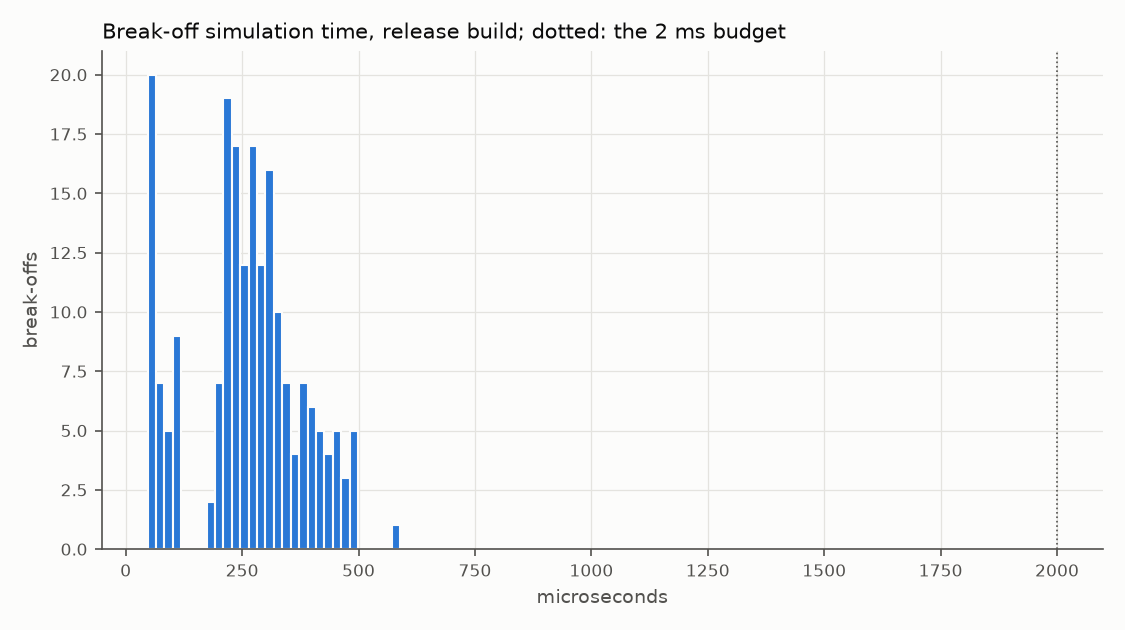
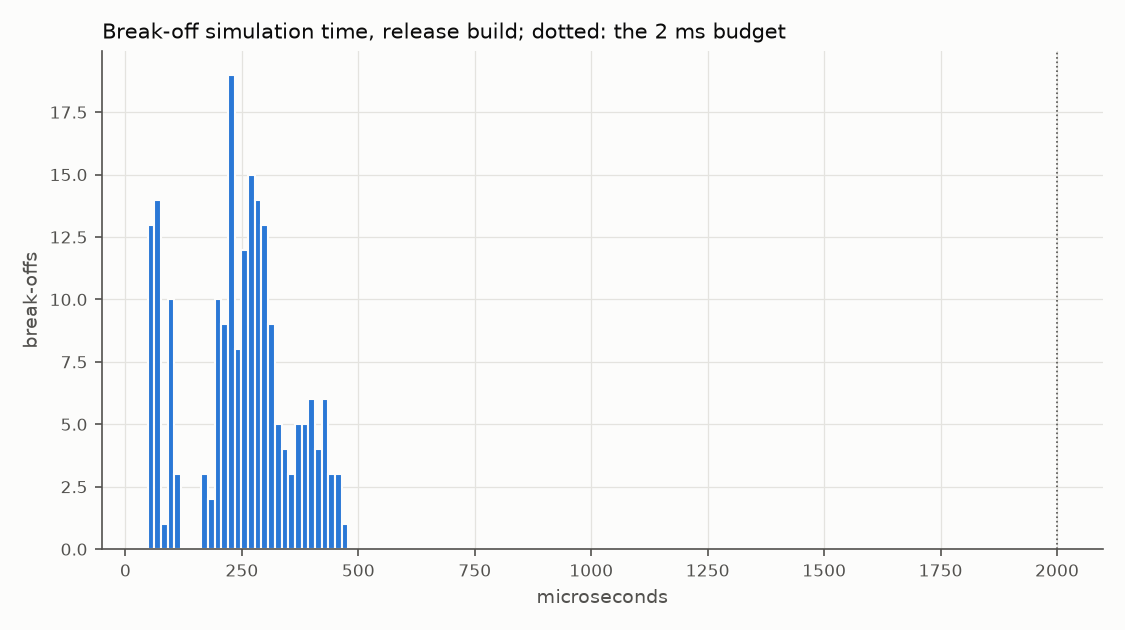
Calibration report regenerated: setups from the series' summaries, no data problems

diff --git a/docs/calibration/report/report.md b/docs/calibration/report/report.md
@@ -83,7 +83,7 @@ Setup: Stun shots (no spin at contact): throw is the angle between the object ba
 
 ![Cushion rebound angle and speed against incidence](cushion_rebound.png)
 
-The angle a plain rolling cue ball comes off the side cushion at, against the angle it goes in at, for four speeds, and how much of its speed it keeps. Rebound angles run 0.0 to 79.7 degrees and the ball keeps 70.2 to 94.3% of its speed. Up to 2 m/s the speeds give the same angles to within 0.05 degrees, so their lines lie on top of each other; only the firm hit's restitution falls. Against the target (C7): worst 0.05 deg and 0.08% of the speed off the fine-step Mathavan solution over 36 cases; the target is 1 deg, 2% (the suite also checks side, stun and screw).
+The angle a plain rolling cue ball comes off the side cushion at, against the angle it goes in at, at 0.5, 1, 2 and 4 m/s, and how much of its speed it keeps. Rebound angles run 0.0 to 79.7 degrees and the ball keeps 70.2 to 94.3% of its speed. Up to 2 m/s the speeds give the same angles to within 0.05 degrees, so their lines lie on top of each other; only the firm hit's restitution falls. Against the target (C7): worst 0.05 deg and 0.08% of the speed off the fine-step Mathavan solution over 36 cases; the target is 1 deg, 2% (the suite also checks side, stun and screw).
 
 Setup: A rolling ball without side into the left side cushion. Angles from the cushion normal; rebound_deg just after the impact, rebound_rolling_deg once the ball rolls again.
 
@@ -131,6 +131,6 @@ Setup: Full-ball hit on a red 1 m away (centre to centre), simulated by this rep
 
 ![Simulation time of break-offs](break_sim_time.png)
 
-How long the simulation of each break-off took on this PC. Over 200 break-offs the simulation took a median of 268 us and at most 589 us, within the 2000 us budget (spec 7.13).
+How long the simulation of each break-off took on this PC. Over 200 break-offs the simulation took a median of 260 us and at most 479 us, within the 2000 us budget (spec 7.13).
 
 Setup: Wall-clock time of simulate() per break-off, measured in a release build; only release timings count against the budget.
